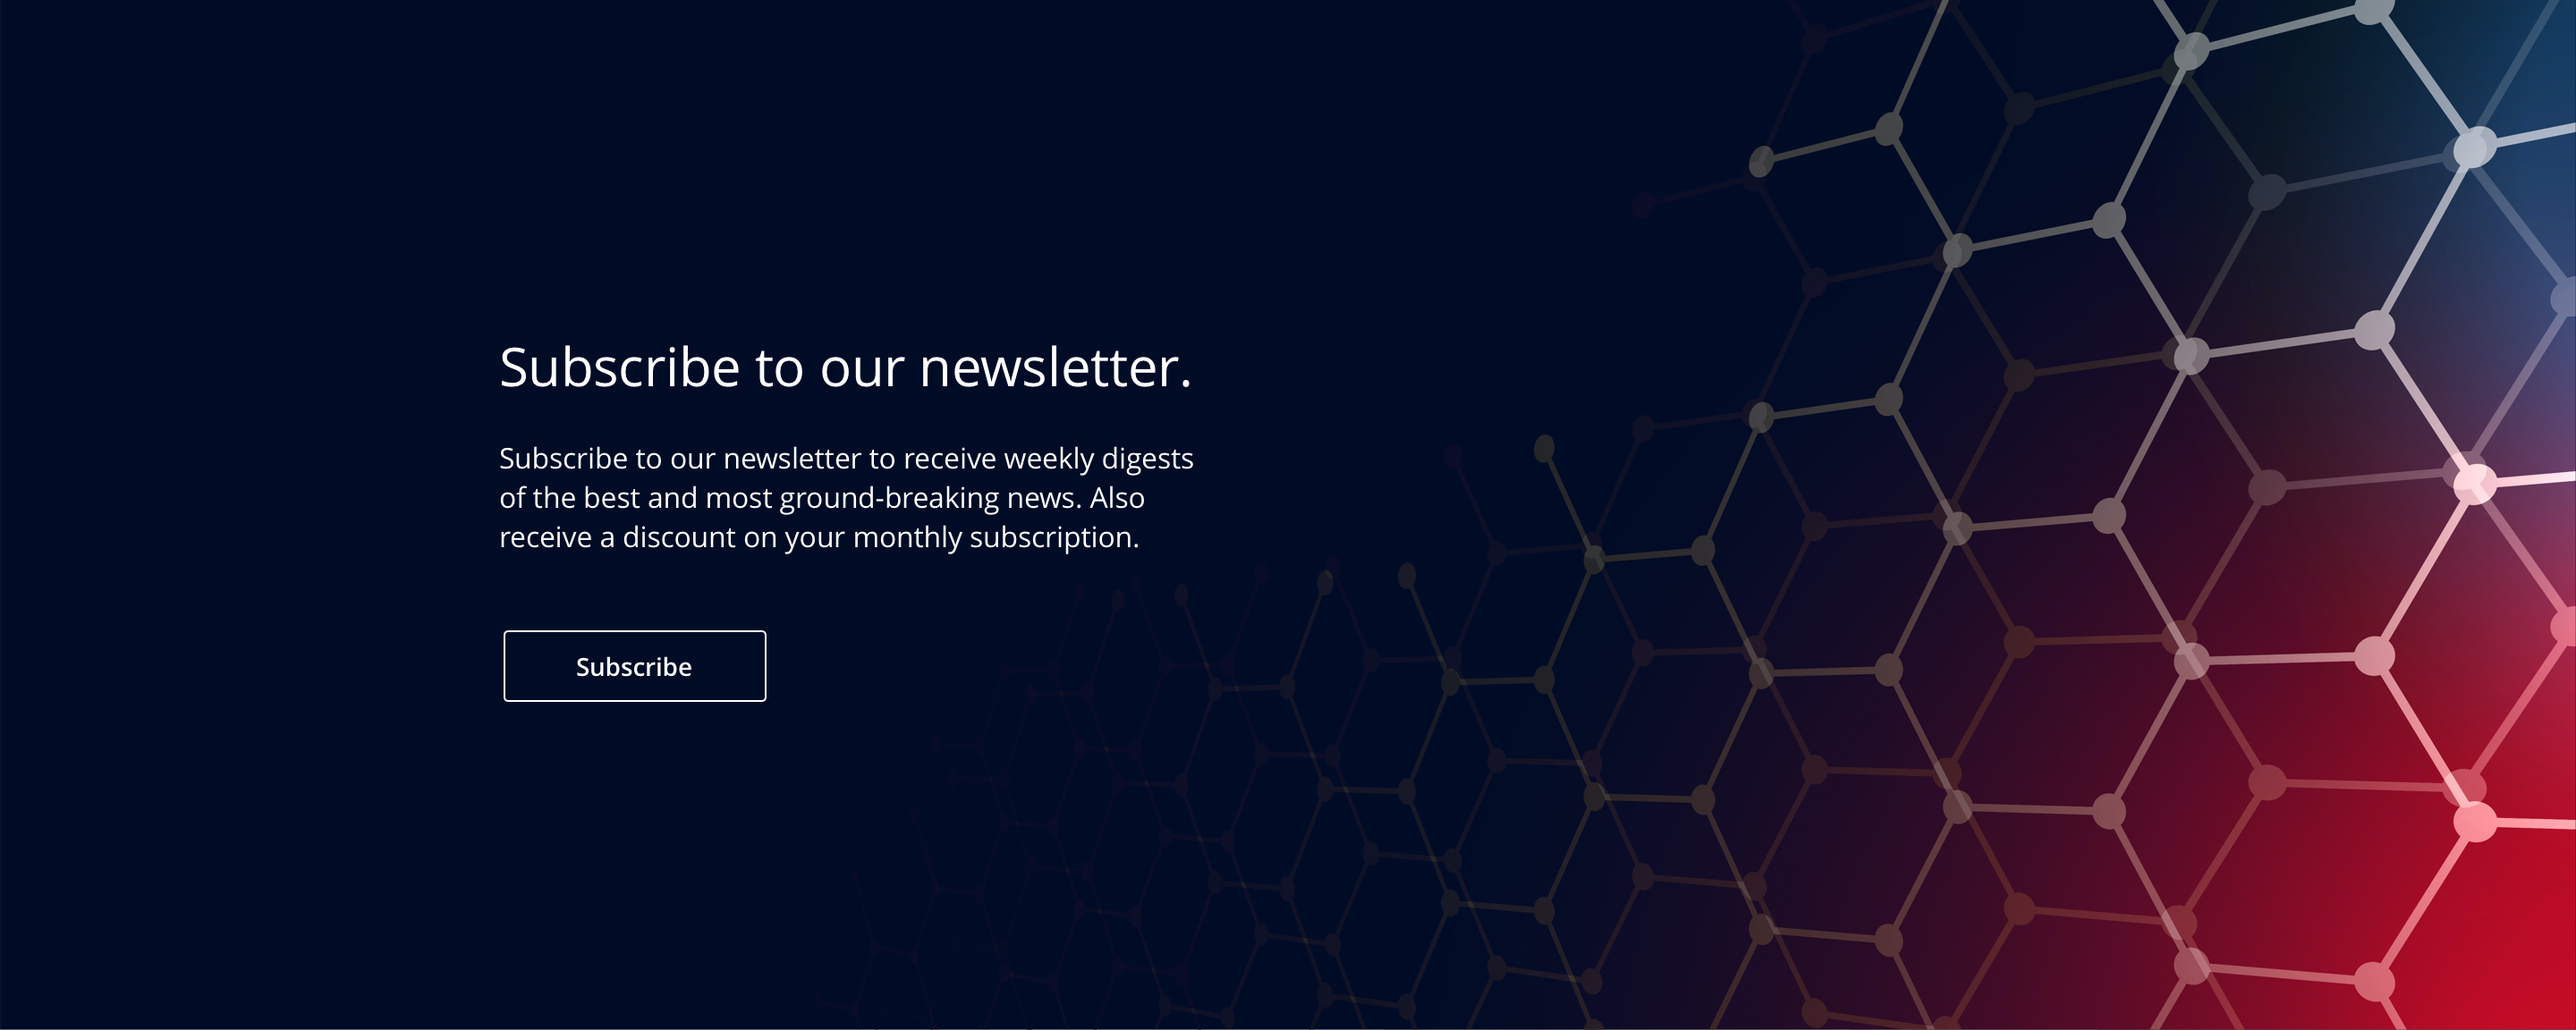
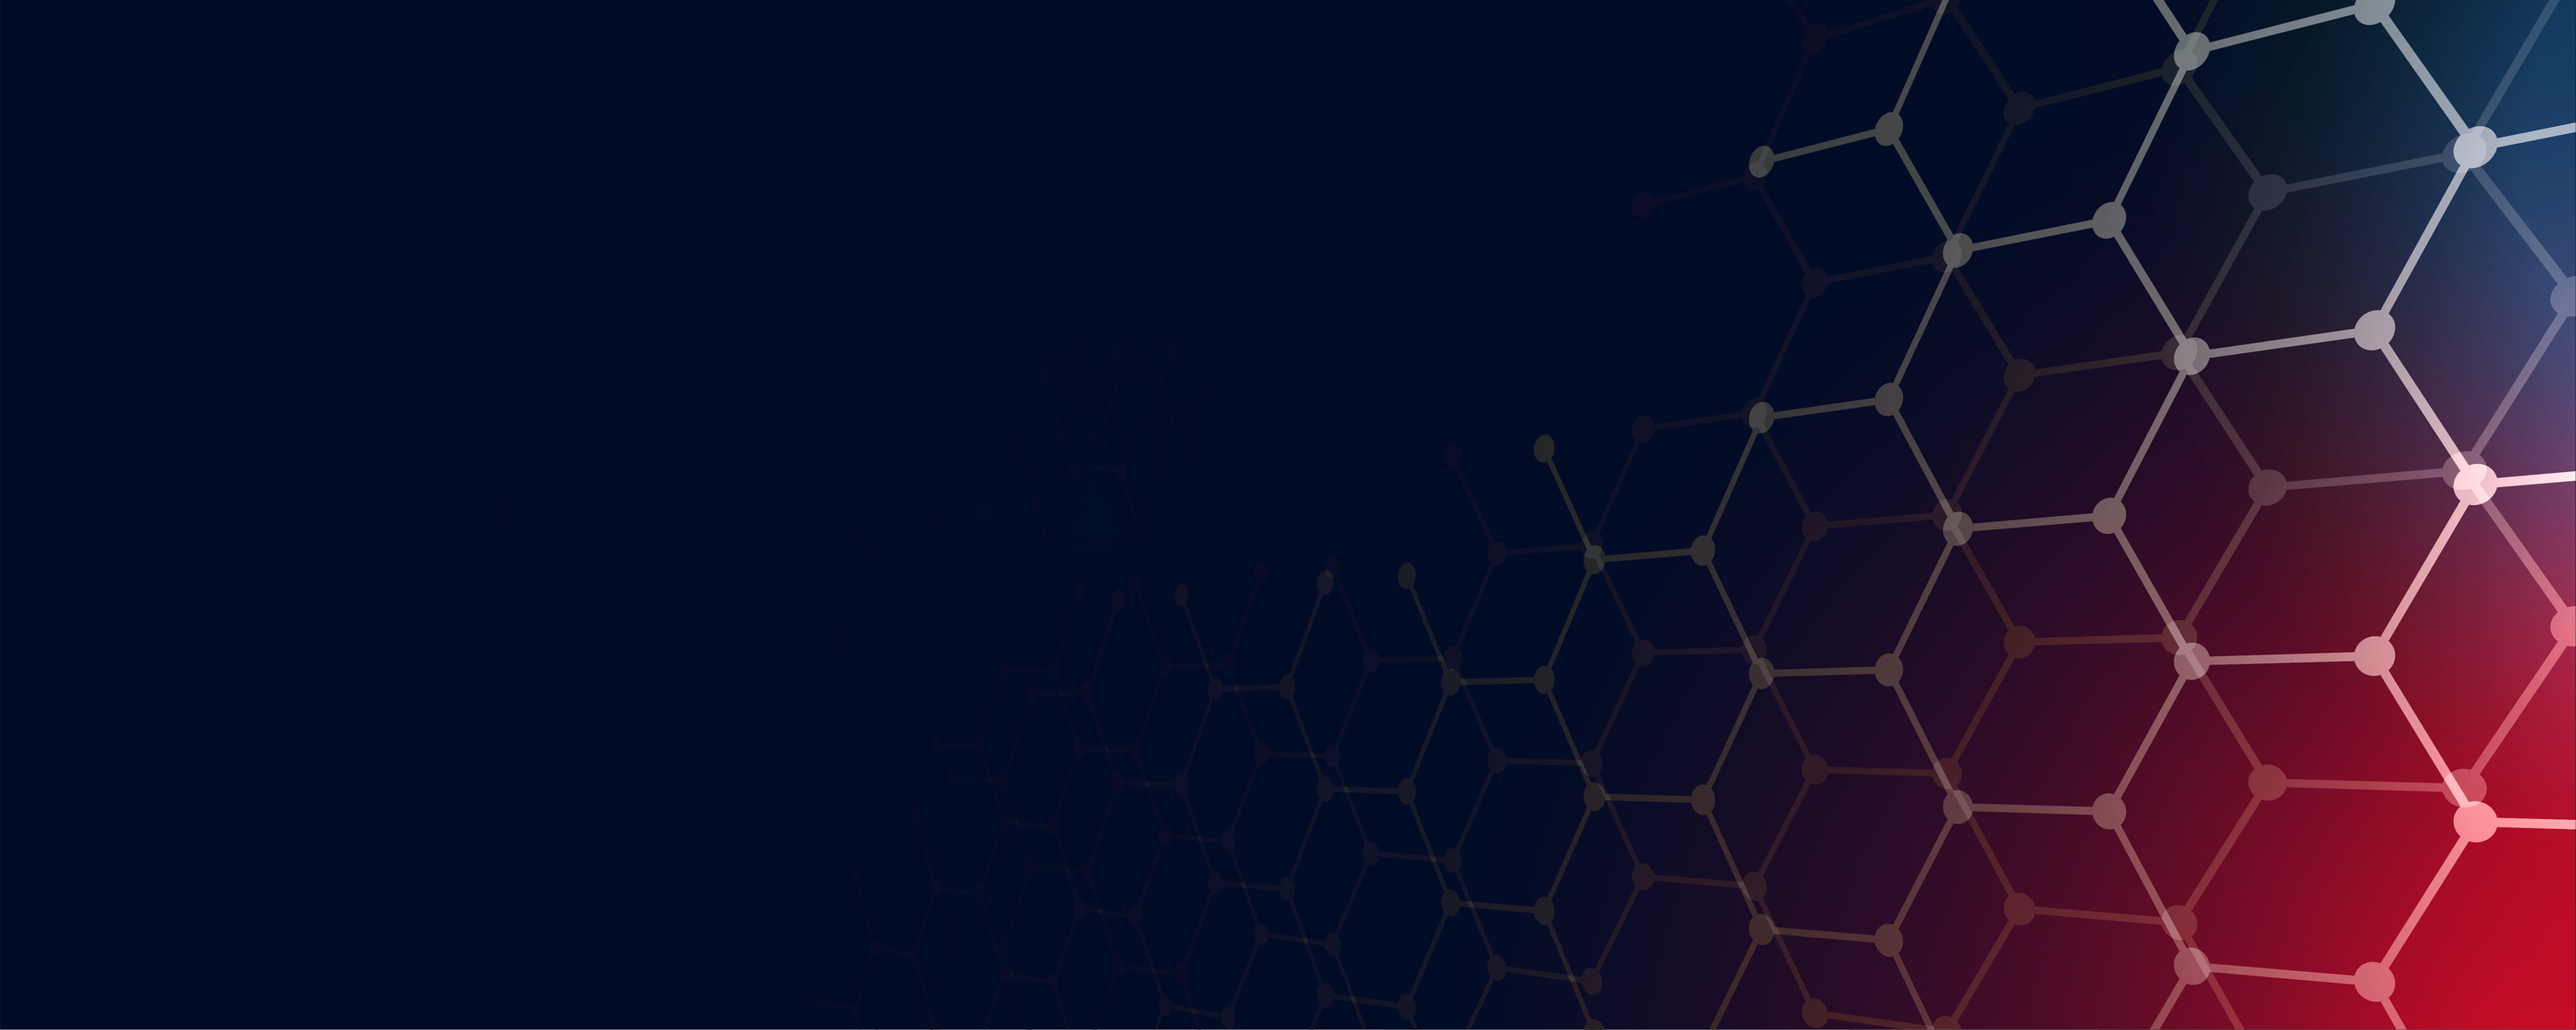
Add Feedbacks and News tests

Changed region(s): [[0.1875, 0.4375, 0.4688, 0.5312], [0.1875, 0.3438, 0.4688, 0.375], [0.2188, 0.625, 0.2812, 0.6562]]

diff --git a/src/components/ContactForm/ContactForm.js b/src/components/ContactForm/ContactForm.js
@@ -20,21 +20,22 @@ import {
 
 export const ContactForm = () => {
   const [
-    { email, firstName, lastName, message, phone },
-    handleInputChange
+    { email, firstName, lastName, message, phone, news },
+    handleInputChange,
+    handleCheckbox
   ] = useForm({
     email: '',
     firstName: '',
     lastName: '',
     message: '',
-    phone: ''
+    phone: '',
+    news: false
   });
 
   const [showModal, setShowModal] = useState(false);
 
   const handlerSubmit = event => {
     event.preventDefault();
-
     setShowModal(true);
   };
 
@@ -87,7 +88,10 @@ export const ContactForm = () => {
             />
           </Row>
           <Checkbox
+            checked={news}
+            onChange={handleCheckbox}
             className="pl-0"
+            name="news"
             label="Send me emails about breaking news and promotions."
           />
           <Col className="container-button mt-5">
@@ -101,7 +105,7 @@ export const ContactForm = () => {
         <Modal
           showProp={showModal}
           toggleModalProp={setShowModal}
-          data={{ email, firstName, lastName, message, phone }}
+          data={{ email, firstName, lastName, message, phone, news }}
         />
       </>
     </form>

diff --git a/src/hooks/useForm.test.js b/src/hooks/useForm.test.js
@@ -1,0 +1,47 @@
+import { act, renderHook } from '@testing-library/react-hooks';
+import { useForm } from './useForm';
+
+describe('Hook useForm Test', () => {
+  const initialValue = {
+    name: 'dylan',
+    terms: false
+  };
+
+  it('Change Input value', () => {
+    const { result } = renderHook(() => useForm(initialValue));
+    const [, handlerInput] = result.current;
+
+    act(() => {
+      handlerInput({ target: { name: 'name', value: 'dylanbatar' } });
+    });
+
+    const [values] = result.current;
+
+    expect(values.name).toEqual('dylanbatar');
+  });
+
+  it('Change CheckBox value', () => {
+    const { result } = renderHook(() => useForm(initialValue));
+    const [value, , handlerChange] = result.current;
+
+    act(() => {
+      handlerChange({ target: { name: 'terms', checked: !value.terms } });
+    });
+
+    const [values] = result.current;
+    expect(values.terms).toBe(true);
+  });
+
+  it('Reset Form', () => {
+    const { result } = renderHook(() => useForm(initialValue));
+    const [, , , reset] = result.current;
+
+    act(() => {
+      reset(initialValue);
+    });
+
+    const [values] = result.current;
+
+    expect(values).toBe(initialValue);
+  });
+});

diff --git a/src/components/Modal/modal.test.js b/src/components/Modal/modal.test.js
@@ -1,0 +1,38 @@
+import { shallow } from 'enzyme';
+import { Modal } from './Modal';
+
+describe('Modals Test', () => {
+  let props = {
+    email: 'dylanbatar2@gmail.com',
+    firstName: 'dylan',
+    lastName: 'batista',
+    message: 'message test',
+    phone: '3008582037',
+    news: false
+  };
+  const toggleModal = jest.fn();
+  const component = shallow(
+    <Modal data={{ ...props }} toggleModalProp={toggleModal} />
+  );
+
+  it('Message when subscription is enable', () => {
+    const component = shallow(
+      <Modal data={{ ...props, news: true }} toggleModalProp={toggleModal} />
+    );
+    const subcritionMessage = component.find('p').at(1).text();
+    expect(subcritionMessage).toEqual('Enabled breakings news and promotions');
+  });
+
+  it('Message when subscription is dissable', () => {
+    const subcritionMessage = component.find('p').at(1).text();
+    expect(subcritionMessage).toEqual(
+      'Dissabled breakings news and promotions'
+    );
+  });
+
+  it('Close modal', () => {
+    const cancelButton = component.find('Button');
+    cancelButton.simulate('click');
+    expect(toggleModal).toHaveBeenCalledTimes(1);
+  });
+});

diff --git a/src/components/Sections/Banner/Banner.js b/src/components/Sections/Banner/Banner.js
@@ -1,13 +1,25 @@
 import React from 'react';
-
+import Button from 'emerald-ui/lib/Button';
 export const Banner = () => {
   return (
-    <section className="banner mt-5 mb-5">
-      <img
-        className="banner-image"
-        src={`${process.env.PUBLIC_URL}/assets/img/banner.jpg`}
-        alt="banner"
-      />
+    <section
+      className="banner mt-5 mb-5"
+      style={{
+        backgroundImage: `url(${process.env.PUBLIC_URL}/assets/img/banner.jpg)`
+      }}
+    >
+      <div className="banner-content container">
+        <h2 className="mb-2">Subscribe to our newsletter</h2>
+        <p className="mb-4">
+          Subscribe to our newsletter to receive weekly digest of the best and
+          most ground-breaking news. Also receive a discount on your monthly
+          subscription.
+        </p>
+
+        <Button color="default" shape="outline" className="banner-button">
+          Subscribe
+        </Button>
+      </div>
     </section>
   );
 };

diff --git a/src/styles/components/_banner.scss b/src/styles/components/_banner.scss
@@ -1,10 +1,31 @@
 .banner {
   display: flex;
+  align-items: center;
   justify-content: center;
-  max-width: 1440px;
+  max-height: 576px;
+  height: 576px;
   margin: 0 auto;
-  .banner-image {
-    max-height: 576px;
-    width: 100%;
+  background-size: cover;
+  background-position: center;
+
+  .banner-content {
+    & > * {
+      color: #fff !important;
+    }
+
+    h2 {
+      font-size: $font-section-title;
+    }
+
+    p {
+      max-width: 400px;
+    }
+
+    .banner-button {
+      span {
+        color: #fff !important;
+        padding: 0 2rem;
+      }
+    }
   }
 }

diff --git a/src/components/Header/Header.js b/src/components/Header/Header.js
@@ -17,7 +17,12 @@ export const Header = () => {
   return (
     <Navbar breakAt="lg" fixedAtTop>
       <Navbar.Brand>
-        <img src={`${process.env.PUBLIC_URL}/assets/img/logo.svg`} alt="logo" />
+        <a href="/">
+          <img
+            src={`${process.env.PUBLIC_URL}/assets/img/logo.svg`}
+            alt="logo"
+          />
+        </a>
       </Navbar.Brand>
       <Nav grow collapsible>
         <RenderDropdownList listItem={dropdownItems} titleList="Section" />

diff --git a/src/hooks/useForm.js b/src/hooks/useForm.js
@@ -7,9 +7,13 @@ export const useForm = inputs => {
     setValues({ ...values, [target.name]: target.value });
   };
 
+  const handlerCheckboxChange = ({ target }) => {
+    setValues({ ...values, [target.name]: target.checked });
+  };
+
   const reset = () => {
     setValues(inputs);
   };
 
-  return [values, handleInputChange, reset];
+  return [values, handleInputChange, handlerCheckboxChange, reset];
 };

diff --git a/src/components/Modal/Modal.js b/src/components/Modal/Modal.js
@@ -34,6 +34,9 @@ export const Modal = ({ toggleModalProp, showProp, data }) => {
             </div>
           </div>
           <p>{data?.message}</p>
+          <p>
+            {data?.news ? 'Enabled' : 'Dissabled'} breakings news and promotions
+          </p>
         </ModalE.Body>
         <ModalE.Footer>
           <Button onClick={toggleModal} shape="flat" color="info">

diff --git a/src/components/NewsGrid/NewsGrid.js b/src/components/NewsGrid/NewsGrid.js
@@ -12,7 +12,7 @@ export const NewsGrid = () => {
   const { data, error, loading } = useFetch(getNews);
 
   const disableButton = () => {
-    return limitPost >= data?.response.docs.length ? false : true;
+    return limitPost >= data?.response.docs.length ? true : false;
   };
 
   const loadMore = () => {

diff --git a/src/components/Sections/Banner/banner.test.js b/src/components/Sections/Banner/banner.test.js
@@ -1,0 +1,9 @@
+import { shallow } from 'enzyme';
+import { Banner } from './Banner';
+
+describe('Banner section', () => {
+  it('Section snapshot', () => {
+    const component = shallow(<Banner />);
+    expect(component).toMatchSnapshot();
+  });
+});

diff --git a/src/styles/components/_newsGrid.scss b/src/styles/components/_newsGrid.scss
@@ -8,6 +8,7 @@
 
     img {
       height: 150px;
+      object-fit: cover;
     }
 
     h2 {
